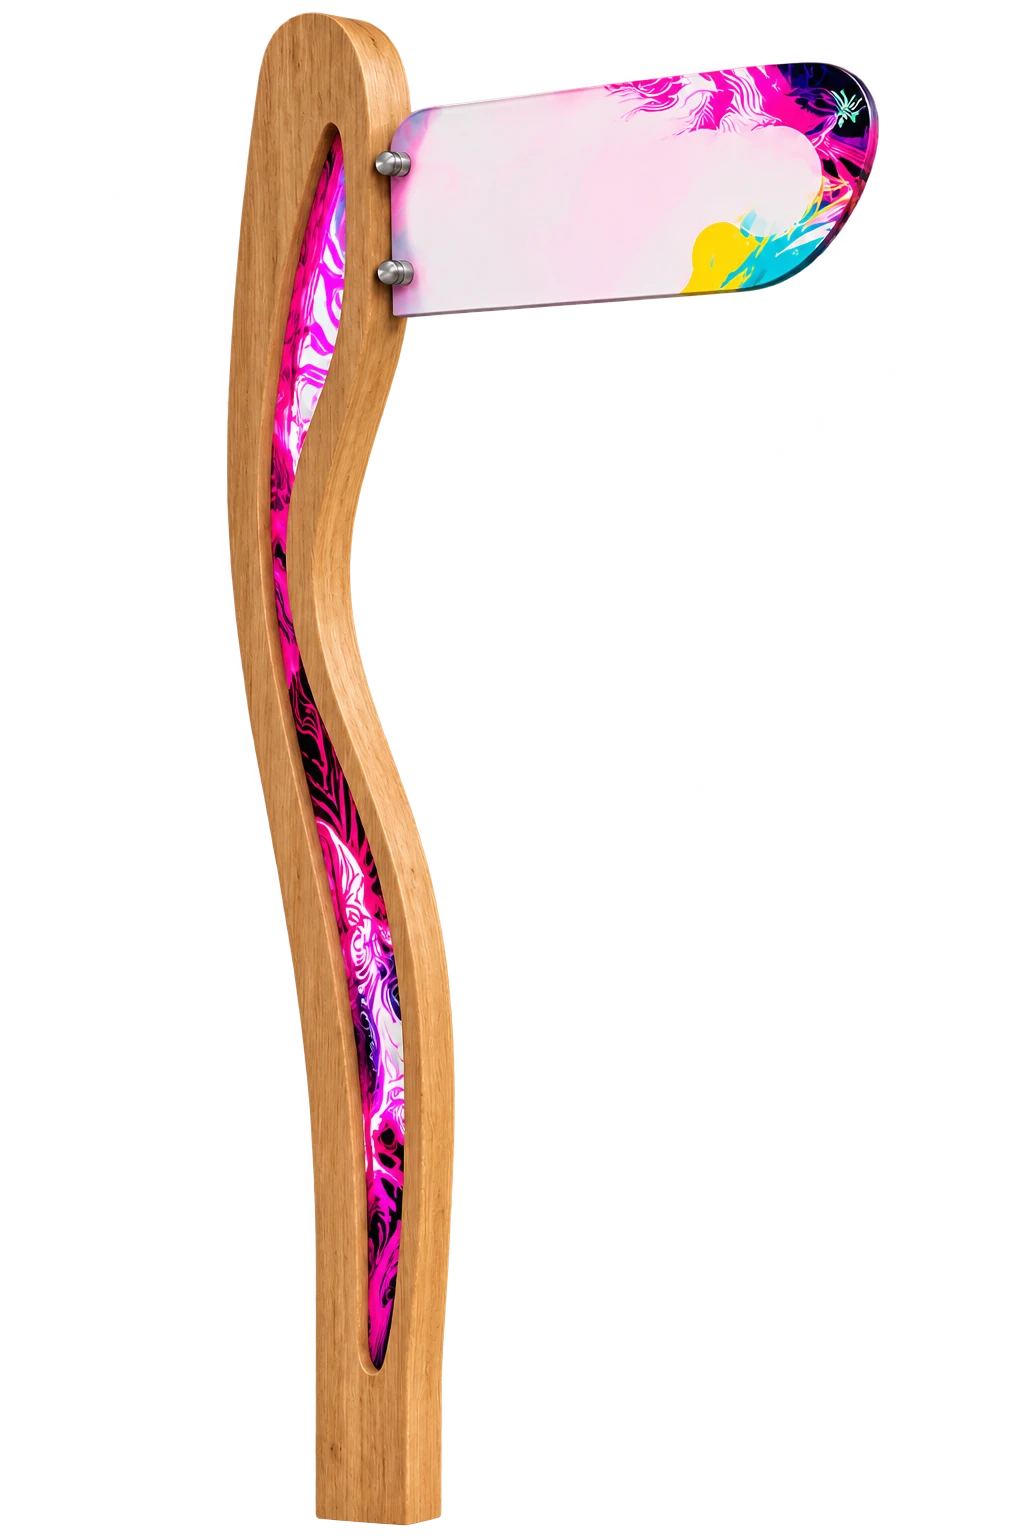
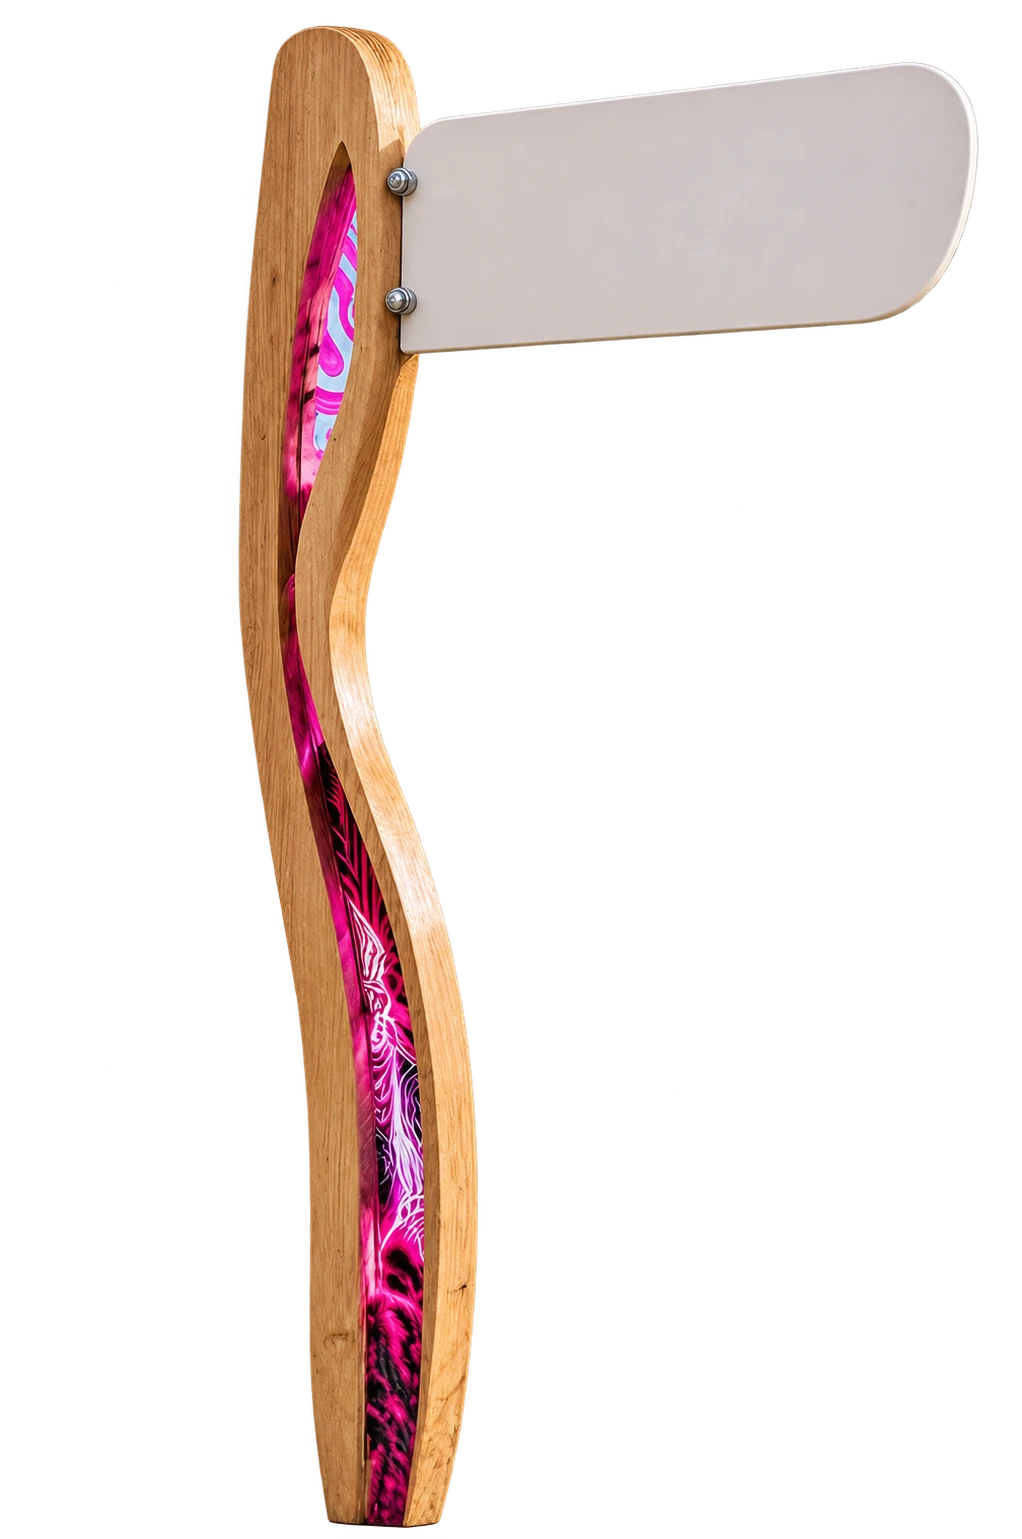
Recorrido en primera persona por el mapa, soporte nuevo y nombres de pictogramas corregidos

Changed region(s): [[0.2123, 0.0, 0.9706, 1.0]]

diff --git a/index.html b/index.html
@@ -832,12 +832,12 @@ const PICTOS=[
   {n:'Baños de hombres',w:'assets/pictos/blanco/p2.png',b:'assets/pictos/negros/p2.png'},
   {n:'Tienda',w:'assets/pictos/blanco/p3.png',b:'assets/pictos/negros/p3.png'},
   {n:'Cafetería',w:'assets/pictos/blanco/p4.png',b:'assets/pictos/negros/p4.png'},
-  {n:'Primeros auxilios',w:'assets/pictos/blanco/p5.png',b:'assets/pictos/negros/p5.png'},
+  {n:'Punto de encuentro',w:'assets/pictos/blanco/p5.png',b:'assets/pictos/negros/p5.png'},
   {n:'Gastronomía',w:'assets/pictos/blanco/p6.png',b:'assets/pictos/negros/p6.png'},
   {n:'Escenario',w:'assets/pictos/blanco/p7.png',b:'assets/pictos/negros/p7.png'},
   {n:'Charlas',w:'assets/pictos/blanco/p8.png',b:'assets/pictos/negros/p8.png'},
   {n:'Direccional',w:'assets/pictos/blanco/p9.png',b:'assets/pictos/negros/p9.png'},
-  {n:'Punto de encuentro',w:'assets/pictos/blanco/p10.png',b:'assets/pictos/negros/p10.png'},
+  {n:'Primeros auxilios',w:'assets/pictos/blanco/p10.png',b:'assets/pictos/negros/p10.png'},
   {n:'Accesibilidad',w:'assets/pictos/blanco/p11.png',b:'assets/pictos/negros/p11.png'},
   {n:'No pasar',w:'assets/pictos/blanco/p12.png',b:'assets/pictos/negros/p12.png'},
   {n:'No pet friendly',w:'assets/pictos/blanco/p13.png',b:'assets/pictos/negros/p13.png'},
@@ -851,15 +851,15 @@ const PICTOS=[
 /* mockup del soporte: el pictograma impreso sobre el cartel acrílico del poste (a la izquierda el poste entero, a la derecha el cartel de cerca) */
 const SOP={post:null,pics:[],cache:[]};
 (function(){const a=new Image();a.onload=()=>{SOP.post=a};a.src='assets/pictos/soporte.webp';PICTOS.forEach((it,i)=>{const im=new Image();im.onload=()=>{SOP.pics[i]=im;SOP.cache[i]=null};im.src=it.b})})();
-function sopPlace(x,im,ox,oy,sc,name){x.save();x.translate(ox+500*sc,oy+205*sc);x.transform(1,-.07,0,1,0,0);x.scale(.92,1);x.globalCompositeOperation='multiply';x.globalAlpha=.92;const z=118*sc;x.drawImage(im,-z/2-10*sc,-z/2,z,z);
-  if(name){/* el nombre va dentro del cartel, al lado del pictograma, en Inter */x.fillStyle='#16161a';x.textBaseline='middle';x.textAlign='left';const W=175*sc,w=name.toUpperCase().split(' ');let fs=30*sc,lines;for(;fs>8*sc;fs-=sc){x.font='700 '+fs+'px Inter,sans-serif';lines=[];let l='';w.forEach(t=>{const q=l?l+' '+t:t;if(x.measureText(q).width>W&&l){lines.push(l);l=t}else l=q});lines.push(l);if(lines.length<=3&&lines.every(q=>x.measureText(q).width<=W))break}
-    const lh=fs*1.18,y0=-(lines.length-1)*lh/2;lines.forEach((q,i)=>x.fillText(q,z/2+2*sc,y0+i*lh))}
+function sopPlace(x,im,ox,oy,sc,name){x.save();x.translate(ox+690*sc,oy+208*sc);x.globalCompositeOperation='multiply';x.globalAlpha=.92;const z=132*sc,pc=name?-170*sc:0;x.drawImage(im,pc-z/2,-z/2,z,z);
+  if(name){/* el nombre va dentro del cartel, al lado del pictograma, en Inter */x.fillStyle='#16161a';x.textBaseline='middle';x.textAlign='left';const W=255*sc,w=name.toUpperCase().split(' ');let fs=30*sc,lines;for(;fs>8*sc;fs-=sc){x.font='700 '+fs+'px Inter,sans-serif';lines=[];let l='';w.forEach(t=>{const q=l?l+' '+t:t;if(x.measureText(q).width>W&&l){lines.push(l);l=t}else l=q});lines.push(l);if(lines.length<=3&&lines.every(q=>x.measureText(q).width<=W))break}
+    const lh=fs*1.18,y0=-(lines.length-1)*lh/2;lines.forEach((q,i)=>x.fillText(q,pc+z/2+14*sc,y0+i*lh))}
   x.restore()}
 function sopMock(k){if(SOP.cache[k])return SOP.cache[k];const post=SOP.post,im=SOP.pics[k];if(!post||!im)return 'assets/pictos/soporte.webp';
   const c=document.createElement('canvas');c.width=1500;c.height=1000;const x=c.getContext('2d');
   x.drawImage(post,60,20,640,960);sopPlace(x,im,60,20,640/1024);
-  const sc=680/520,ox=760-380*sc,oy=250-50*sc;x.save();x.shadowColor='rgba(20,20,30,.35)';x.shadowBlur=36;x.shadowOffsetY=16;x.fillStyle='#fff';x.beginPath();x.roundRect?x.roundRect(760,250,680,392,26):x.rect(760,250,680,392);x.fill();x.restore();
-  x.save();x.beginPath();x.roundRect?x.roundRect(760,250,680,392,26):x.rect(760,250,680,392);x.clip();x.drawImage(post,380,50,520,300,760,250,680,392);sopPlace(x,im,ox,oy,sc);x.restore();
+  const sc=680/600,ox=760-390*sc,oy=250-40*sc;x.save();x.shadowColor='rgba(20,20,30,.35)';x.shadowBlur=36;x.shadowOffsetY=16;x.fillStyle='#fff';x.beginPath();x.roundRect?x.roundRect(760,250,680,392,26):x.rect(760,250,680,392);x.fill();x.restore();
+  x.save();x.beginPath();x.roundRect?x.roundRect(760,250,680,392,26):x.rect(760,250,680,392);x.clip();x.drawImage(post,390,40,600,346,760,250,680,392);sopPlace(x,im,ox,oy,sc);x.restore();
   x.fillStyle='#16161a';x.font='600 46px Inter,sans-serif';x.textBaseline='alphabetic';x.fillText((PICTOS[k].n||'').toUpperCase(),760,720);x.fillStyle='rgba(22,22,26,.55)';x.font='400 30px Inter,sans-serif';x.fillText('Así luce en el soporte',760,768);
   return SOP.cache[k]=c.toDataURL('image/png')}
 function drawArrowShape(x,ox,oy,k,ink,a=1,b=1){/* flecha en un espacio de 1000: tallo con punta redonda + dos brazos que se juntan en la punta */
@@ -1811,6 +1811,7 @@ function frame(){
   /* cámara */
   if(window.__DESC&&window.__DESC.on)window.__DESC.cam();
   if(window.__OPEN&&window.__OPEN.on)window.__OPEN.cam();
+  if(window.__TOUR&&window.__TOUR.on)window.__TOUR.cam();
   const fd=S.f.distanceTo(T.f);
   {/* resortes críticamente amortiguados: la cámara arranca despacio, acelera y frena suave (no "de golpe") */
     const sp=(o,key,tg,w,h)=>{const v=o.v||(o.v={});const a=(tg-o[key])*w*w-2*w*(v[key]||0);v[key]=(v[key]||0)+a*h;o[key]+=v[key]*h};
@@ -1824,7 +1825,7 @@ function frame(){
   }
   if(started){const mv=(keys.w||keys.arrowup?1:0)-(keys.s||keys.arrowdown?1:0),st=(keys.d?1:0)-(keys.a?1:0);if(mv||st)pan(st*dt*1.6,0,mv*dt*1.6)}
   if(!started&&!(window.__OPEN&&window.__OPEN.on)){T.th=Math.sin(tNow*.1)*.5;S.th=T.th}
-  const extra=Math.min(12,fd*.4),th=S.th+UD.th+Math.sin(tNow*.17)*.015,ph=clamp(S.ph+UD.ph,-.5,1.35),r=Math.max(2.5,(S.r+extra)*UD.r);
+  const extra=Math.min(12,fd*.4),th=S.th+UD.th+Math.sin(tNow*.17)*.015,ph=clamp(S.ph+UD.ph,-.5,1.35),r=Math.max((window.__TOUR&&window.__TOUR.on)?.05:2.5,(S.r+extra)*UD.r);
   const f=S.f.clone().add(UD.f);
   camera.position.set(f.x+Math.sin(th)*Math.cos(ph)*r,f.y+Math.sin(ph)*r,f.z+Math.cos(th)*Math.cos(ph)*r);camera.lookAt(f);
   renderer.render(scene,camera);requestAnimationFrame(frame)}
@@ -1878,7 +1879,7 @@ const SECCOL={aire:'#01DAC7',rojo:'#FA3710',amarillo:'#FED108',rosa:'#FF00B2',az
 const PIN_NAME={repara:'Bienestar',gastro:'Yoga',stands4:'Gastronomía',stands1:'Expositores',stands2:'Expositores',stands3:'Expositores',ig1:'Espacio Instagram',ig2:'Espacio Instagram',ig3:'Espacio Instagram'};/* nombres que cambian en el mapa */
 const PIN_SEC={ingreso:'aire',informes:'aire',ig1:'aire',ig2:'aire',ig3:'aire',stands1:'rojo',stands2:'rojo',stands3:'rojo',stands4:'rojo',gastro:'amarillo',banos2:'aire',jardin:'rojo',desc2:'aire',desc3:'aire',escenario:'rosa',charlas:'amarillo',agua:'azul'};
 const PIN_ICO={ingreso:[242,229,241],escenario:[237],charlas:[236],desc1:[238],desc2:[238],desc3:[238],ig1:[230],ig2:[230],ig3:[230],banos1:[227,228,229],banos2:[227,228,229],gastro:[234],informes:[239],stands1:[235],stands2:[235],stands3:[235],stands4:[232],jardin:[240],agua:[231],repara:[233]};
-let mapMode='sec';const pinIcoTex={};
+let mapMode='both';const pinIcoTex={};
 function icoTex(n){if(pinIcoTex[n])return pinIcoTex[n];const o={tex:null,asp:.85};pinIcoTex[n]=o;const im=new Image();im.onload=()=>{const t=new THREE.Texture(im);t.encoding=THREE.sRGBEncoding;t.anisotropy=8;t.needsUpdate=true;o.tex=t;o.asp=im.width/im.height;o.subs.forEach(f=>f())};o.subs=[];im.src='assets/mapa-pins/n'+n+'.png';return o}
 function pillColored(text,world,col){const c=canvas(8,8),x=c.getContext('2d'),f='600 46px Inter,sans-serif';x.font=f;const w=Math.ceil(x.measureText(text).width+60),h=82;c.width=w;c.height=h;
   x.fillStyle=col;x.beginPath();x.moveTo(h/2,2);x.arcTo(w-2,2,w-2,h-2,h/2-2);x.arcTo(w-2,h-2,2,h-2,h/2-2);x.arcTo(2,h-2,2,2,h/2-2);x.arcTo(2,2,w-2,2,h/2-2);x.fill();
@@ -1890,11 +1891,11 @@ function setMapMode(m){mapMode=m;if(!mapReady)return;const cols=pinColors();
   document.querySelectorAll('#mmode .pill').forEach(b=>b.classList.toggle('a',b.dataset.m===m));
   pinGroup.children.forEach(g0=>{const u=g0.userData,d=mapPD[u.i],id=d.p.id;
     /* en SECTORES solo cambian los que tienen sector asignado; el resto conserva su color. En ESPACIOS todos usan color de sector */
-    const col=new THREE.Color(m==='sec'?(PIN_SEC[id]?SECCOL[PIN_SEC[id]]:M3.CSS[d.p.c]):cols[id]);
+    const col=new THREE.Color(m!=='esp'?(PIN_SEC[id]?SECCOL[PIN_SEC[id]]:M3.CSS[d.p.c]):cols[id]);
     u.bm.material.color.copy(col);u.top.material.color.copy(col);u.base.material.color.copy(col);
     if(u.pill){g0.remove(u.pill);u.pill.material.map.dispose();u.pill=null}
-    u.lb.visible=false;u.ico.visible=(m==='esp');
-    if(m==='sec'){const hex='#'+col.getHexString();u.pill=pillColored(PIN_NAME[id]||d.p.n,d.p.big?4.6:3.9,hex);u.pill.position.y=u.H+4.2;g0.add(u.pill)}})}
+    u.lb.visible=false;u.ico.visible=(m==='esp'||m==='both');
+    if(m==='sec'||m==='both'){const hex='#'+col.getHexString();u.pill=pillColored(PIN_NAME[id]||d.p.n,d.p.big?4.6:3.9,hex);u.pill.position.y=m==='both'?u.H-1.6:u.H+4.2;g0.add(u.pill)}})}
 document.querySelectorAll('#mmode .pill').forEach(b=>b.onclick=()=>setMapMode(b.dataset.m));
 function onMapBuilt(){const M=window.M3;
   [...M.scene.children].forEach(c=>{M.scene.remove(c);mapRoot.add(c)});M.LG.visible=false;
@@ -2211,7 +2212,86 @@ window.__apStart=()=>{if(AP.on)return;AP.on=true;AP.tok++;window.__apOn=true;apS
 window.__apStop=apStop;window.__apCfg=AP;
 ticks.push(()=>{const on=cur>=0&&!!ST[cur]&&ST[cur].id==='web'&&!wv.classList.contains('on');document.getElementById('wqr').classList.toggle('on',on)/* el QR se esconde cuando se abre la pantalla grande de la web */});
 window.__go=go;window.__dbg={ticks,renderer,scene,ST,seedG,U,selectPin,closeInfo,setMapMode,get mapPD(){return mapPD},get cur(){return cur},get step(){return [seedStep,seedWord,catStep,elStep,scrIdx,finale,endScr].join()}};
-{
+{/* ---- RECORRIDO POR EL MAPA (primera persona): se entra por el túnel del ingreso y se camina libre por el predio; todo está apagado y cada lugar se enciende (picto, luz y foto) cuando llegás ---- */
+const TOUR={on:false,x:0,z:0,yaw:0,pitch:0,vx:0,vz:0,keys:{},joy:{x:0,y:0},act:-1,t0:0,last:0,Pl:null,Ll:null,ready:false,pk:[]};
+TOUR.EYE=4.6;TOUR.WALK=8;TOUR.RUN=17;TOUR.R_ON=26;TOUR.R_BIG=34;TOUR.R_OFF=1.35;
+/* interfaz */
+{const css=document.createElement('style');css.textContent=`
+#tbtn{position:fixed;left:50%;bottom:76px;transform:translateX(-50%);z-index:58;display:none;font:600 11px 'JetBrains Mono',ui-monospace,monospace;letter-spacing:.2em;text-transform:uppercase;padding:13px 22px;border-radius:99px;border:1px solid rgba(255,255,255,.45);background:rgba(10,12,20,.55);color:#fff;backdrop-filter:blur(10px);cursor:pointer}
+#tbtn:hover{background:#fff;color:#111}
+#tx{position:fixed;right:18px;bottom:22px;z-index:58;display:none;font:600 11px 'JetBrains Mono',ui-monospace,monospace;letter-spacing:.2em;text-transform:uppercase;padding:12px 18px;border-radius:99px;border:1px solid rgba(255,255,255,.45);background:rgba(10,12,20,.55);color:#fff;backdrop-filter:blur(10px);cursor:pointer}
+#thint{position:fixed;left:50%;bottom:30px;transform:translateX(-50%);z-index:57;display:none;max-width:86vw;text-align:center;font:400 11px 'JetBrains Mono',ui-monospace,monospace;letter-spacing:.24em;text-transform:uppercase;color:rgba(255,255,255,.75);pointer-events:none;transition:opacity 1s}
+#tjoy{position:fixed;left:22px;bottom:26px;width:112px;height:112px;border-radius:50%;z-index:58;display:none;border:1px solid rgba(255,255,255,.4);background:rgba(10,12,20,.4);touch-action:none}
+#tjoy i{position:absolute;left:50%;top:50%;width:46px;height:46px;margin:-23px 0 0 -23px;border-radius:50%;background:rgba(255,255,255,.75)}
+html body.tour #nav,html body.tour #dots,html body.tour #brand,html body.tour #uni,html body.tour #thm,html body.tour #dp,html body.tour #dhint,html body.tour #stg,html body.tour #elchip,html body.tour #apx,html body.tour #ohint,html body.tour #mmode,html body.tour #cap{opacity:0!important;visibility:hidden!important;pointer-events:none!important}
+html body.tour #minfo{left:auto!important;right:3vw!important;top:50%!important;transform:translateY(-50%)!important;width:min(380px,34vw)!important;max-height:80vh;padding:18px 20px 20px!important}
+html body #mmode,html body #mmode .pill{display:none!important;visibility:hidden!important}
+body.tour #tx,body.tour #thint{display:block}
+@media (pointer:coarse),(max-width:760px){body.tour #tjoy{display:block}}`;document.head.appendChild(css);
+  const mk=(tag,id,txt,fn)=>{const b=document.createElement(tag);b.id=id;if(tag==='button'){b.type='button';b.textContent=txt;b.onclick=e=>{e.stopPropagation();fn()}}document.body.appendChild(b);return b};
+  TOUR.bBtn=mk('button','tbtn','Recorrer el mapa',()=>TOUR.start());TOUR.bX=mk('button','tx','✕ Salir',()=>TOUR.exit());
+  TOUR.hint=mk('div','thint');TOUR.hint.textContent='Arrastrá para mirar · W A S D o las flechas para caminar · Esc para salir';
+  TOUR.jy=mk('div','tjoy');TOUR.jy.innerHTML='<i></i>'}
+TOUR.espI=()=>ST.findIndex(s=>s.id==='espacios');
+TOUR.pinG=()=>pinGroup.children.filter(c=>c.userData&&c.userData.i!==undefined);
+TOUR.setup=()=>{if(TOUR.ready||!mapReady||!window.M3)return;TOUR.ready=true};
+TOUR.start=()=>{if(TOUR.on)return;TOUR.setup();if(!TOUR.ready)return;closeInfo();const M=window.M3;
+  /* arranca antes de la boca del túnel del ingreso (mirando hacia adentro) */
+  const rot=-.12,cx=M.wx(1700),cz=M.wz(862),L=36;TOUR.x=cx+Math.sin(rot)*L;TOUR.z=cz+Math.cos(rot)*L;TOUR.yaw=Math.atan2(-Math.sin(rot),-Math.cos(rot));TOUR.pitch=-.03;
+  TOUR.vx=TOUR.vz=0;TOUR.keys={};TOUR.act=-1;TOUR.on=true;TOUR.t0=performance.now();TOUR.last=TOUR.t0;TOUR.gy=undefined;
+  mapRoot.updateWorldMatrix(true,false);TOUR.Pl=mapRoot.worldToLocal(camera.position.clone());TOUR.Ll=mapRoot.worldToLocal(S.f.clone().add(UD.f));
+  TOUR.pk=TOUR.pinG().map(g0=>({g0,k:0}));/* todo apagado */
+  camera.near=.02;camera.updateProjectionMatrix();document.body.classList.add('tour');TOUR.hint.style.opacity=1;clearTimeout(TOUR.ht);TOUR.ht=setTimeout(()=>TOUR.hint.style.opacity=0,9000);
+  document.documentElement.style.overflow=document.body.style.overflow='hidden';TOUR.bBtn.style.display='none'};
+TOUR.exit=()=>{if(!TOUR.on)return;TOUR.on=false;closeInfo();TOUR.pk.forEach(p=>{p.g0.visible=true;p.g0.scale.setScalar(1)});TOUR.pinG().forEach(g0=>{if(g0.userData.pill)g0.userData.pill.visible=true});TOUR.pk=[];TOUR.act=-1;
+  document.body.classList.remove('tour');camera.near=.1;camera.updateProjectionMatrix();document.documentElement.style.overflow=document.body.style.overflow='';
+  const i=TOUR.espI();if(i>=0)go(i)};
+const _tw=new THREE.Vector3(),_tl=new THREE.Vector3(),_tp=new THREE.Vector3();
+TOUR.cam=()=>{if(!TOUR.ready)return;const M=window.M3,now=performance.now(),dt=Math.min(.05,(now-TOUR.last)/1000);TOUR.last=now;const tm=(now-TOUR.t0)/1000;
+  /* caminar: W/S adelante-atrás, A/D al costado, flechas izquierda/derecha giran, Shift corre, la ruedita avanza; en el celular, el joystick */
+  const K=TOUR.keys,fw=(K.w||K.arrowup?1:0)-(K.s||K.arrowdown?1:0)+(-TOUR.joy.y),st=(K.d?1:0)-(K.a?1:0)+TOUR.joy.x,tn=(K.arrowleft?1:0)-(K.arrowright?1:0);
+  TOUR.yaw+=tn*1.6*dt;const sp=K.shift?TOUR.RUN:TOUR.WALK,fx=Math.sin(TOUR.yaw),fz=Math.cos(TOUR.yaw);
+  const tvx=(fx*fw+fz*st)*sp,tvz=(fz*fw-fx*st)*sp,ka=1-Math.exp(-dt*7);TOUR.vx+=(tvx-TOUR.vx)*ka;TOUR.vz+=(tvz-TOUR.vz)*ka;
+  if(TOUR.wheel){const w=TOUR.wheel;TOUR.wheel=0;TOUR.vx+=fx*w;TOUR.vz+=fz*w}
+  TOUR.x+=TOUR.vx*dt;TOUR.z+=TOUR.vz*dt;const bx=M.UW*.47,bz=M.UH*.47;TOUR.x=Math.max(-bx,Math.min(bx,TOUR.x));TOUR.z=Math.max(-bz,Math.min(bz,TOUR.z));
+  /* todo apagado: cada lugar se enciende al llegar y su foto se abre; al alejarte se apaga */
+  let best=-1,bd=1e9;
+  TOUR.pk.forEach(p=>{const i=p.g0.userData.i,d=mapPD[i],dist=Math.hypot(d.g.x-TOUR.x,d.g.z-TOUR.z),R=d.p.big?TOUR.R_BIG:TOUR.R_ON,on=dist<R||(TOUR.act===i&&dist<R*TOUR.R_OFF);p.on=on;if(on&&dist<bd){bd=dist;best=i}});
+  if(best!==TOUR.act){TOUR.act=best;if(best<0)closeInfo();else selectPin(mapPD[best])}
+  TOUR.pk.forEach(p=>{const tg=p.on?1:0;p.k+=(tg-p.k)*Math.min(1,dt*3.2);const act=p.g0.userData.i===TOUR.act?1:0;p.g0.visible=p.k>.02;p.g0.scale.setScalar(Math.max(.001,p.k*(1+.2*act)));if(p.g0.userData.pill)p.g0.userData.pill.visible=false});
+  /* cámara: a la altura de una persona, siguiendo el terreno */
+  const gy=M.hAt(TOUR.x,TOUR.z)+TOUR.EYE,cp=Math.cos(TOUR.pitch),dx=Math.sin(TOUR.yaw)*cp,dy=Math.sin(TOUR.pitch),dz=Math.cos(TOUR.yaw)*cp;
+  TOUR.gy=TOUR.gy===undefined?gy:TOUR.gy+(gy-TOUR.gy)*Math.min(1,dt*8);
+  const tgtP=_tp.set(TOUR.x,TOUR.gy,TOUR.z),tgtL=new THREE.Vector3(TOUR.x+dx*24,TOUR.gy+dy*24,TOUR.z+dz*24);
+  const rate=2.2+13*Math.max(0,Math.min(1,(tm-1.2)/1.3)),k=1-Math.exp(-dt*rate);
+  TOUR.Pl.lerp(tgtP,k);TOUR.Ll.lerp(tgtL,k);
+  mapRoot.updateWorldMatrix(true,false);
+  const pw=mapRoot.localToWorld(_tw.copy(TOUR.Pl)),lw=mapRoot.localToWorld(_tl.copy(TOUR.Ll));
+  const ex=pw.x-lw.x,ey=pw.y-lw.y,ez=pw.z-lw.z,r=Math.max(.05,Math.hypot(ex,ey,ez));
+  const th=Math.atan2(ex,ez),ph=Math.asin(Math.max(-1,Math.min(1,ey/r)));
+  S.f.copy(lw);S.th=th;S.ph=ph;S.r=r;T.f.copy(lw);T.th=th;T.ph=ph;T.r=r;S.v={};if(S.f)S.f.v={};
+  UD.th=UD.ph=0;UD.r=1;UD.f.set(0,0,0);U.th=U.ph=0;U.r=1;U.f.set(0,0,0)};
+/* el botón aparece en la estación del mapa */
+setInterval(()=>{if(!TOUR.ready&&typeof mapReady!=='undefined'&&mapReady)TOUR.setup();
+  const show=!TOUR.on&&TOUR.ready&&cur===TOUR.espI()&&!!(window.__DESC&&window.__DESC.mode==='scroll')&&!document.body.classList.contains('mapinfo')&&!(window.__OPEN&&window.__OPEN.on);TOUR.bBtn.style.display=show?'block':'none'},300);
+/* controles: con el recorrido activo, el scroll no cambia de estación */
+addEventListener('wheel',e=>{if(!TOUR.on)return;e.preventDefault();e.stopImmediatePropagation();TOUR.wheel=(TOUR.wheel||0)+(-e.deltaY)*.05},{capture:true,passive:false});
+addEventListener('touchmove',e=>{if(TOUR.on){e.preventDefault();e.stopImmediatePropagation()}},{capture:true,passive:false});
+addEventListener('scroll',e=>{if(TOUR.on)e.stopImmediatePropagation()},true);
+addEventListener('keydown',e=>{if(!TOUR.on)return;e.stopImmediatePropagation();const k=e.key.toLowerCase();if(k==='escape'){e.preventDefault();TOUR.exit();return}
+  if(['w','a','s','d','arrowup','arrowdown','arrowleft','arrowright','shift',' '].includes(k)){e.preventDefault();TOUR.keys[k]=true;TOUR.hint.style.opacity=0}},true);
+addEventListener('keyup',e=>{if(!TOUR.on)return;TOUR.keys[e.key.toLowerCase()]=false},true);
+/* mirar arrastrando */
+{let pd=null;addEventListener('pointerdown',e=>{if(!TOUR.on||!e.target||e.target.tagName!=='CANVAS')return;pd={x:e.clientX,y:e.clientY}},true);
+ addEventListener('pointermove',e=>{if(!TOUR.on||!pd)return;const dx=e.clientX-pd.x,dy=e.clientY-pd.y;pd.x=e.clientX;pd.y=e.clientY;TOUR.yaw-=dx*.0042;TOUR.pitch=Math.max(-.7,Math.min(.6,TOUR.pitch-dy*.0032));TOUR.hint.style.opacity=0},true);
+ const up=()=>{pd=null};addEventListener('pointerup',up,true);addEventListener('pointercancel',up,true)}
+/* joystick del celular */
+{let id=null;const J=TOUR.jy,knob=J.firstChild;const set=e=>{const r=J.getBoundingClientRect(),x=(e.clientX-r.left-r.width/2)/(r.width/2),y=(e.clientY-r.top-r.height/2)/(r.height/2),m=Math.hypot(x,y),k=m>1?1/m:1;TOUR.joy.x=x*k;TOUR.joy.y=y*k;knob.style.transform=`translate(${TOUR.joy.x*34}px,${TOUR.joy.y*34}px)`};
+ J.addEventListener('pointerdown',e=>{id=e.pointerId;J.setPointerCapture(id);set(e);e.stopPropagation()});J.addEventListener('pointermove',e=>{if(e.pointerId===id)set(e)});
+ const end=e=>{if(e.pointerId===id){id=null;TOUR.joy.x=TOUR.joy.y=0;knob.style.transform=''}};J.addEventListener('pointerup',end);J.addEventListener('pointercancel',end)}
+window.__TOUR=TOUR;
+
+
 /* ============================================================
    EL DESCENSO
    1) Todo lo primero queda igual que en Bioferia: video de Butbe, luces, unión y nacimiento, palabras y catálisis.
